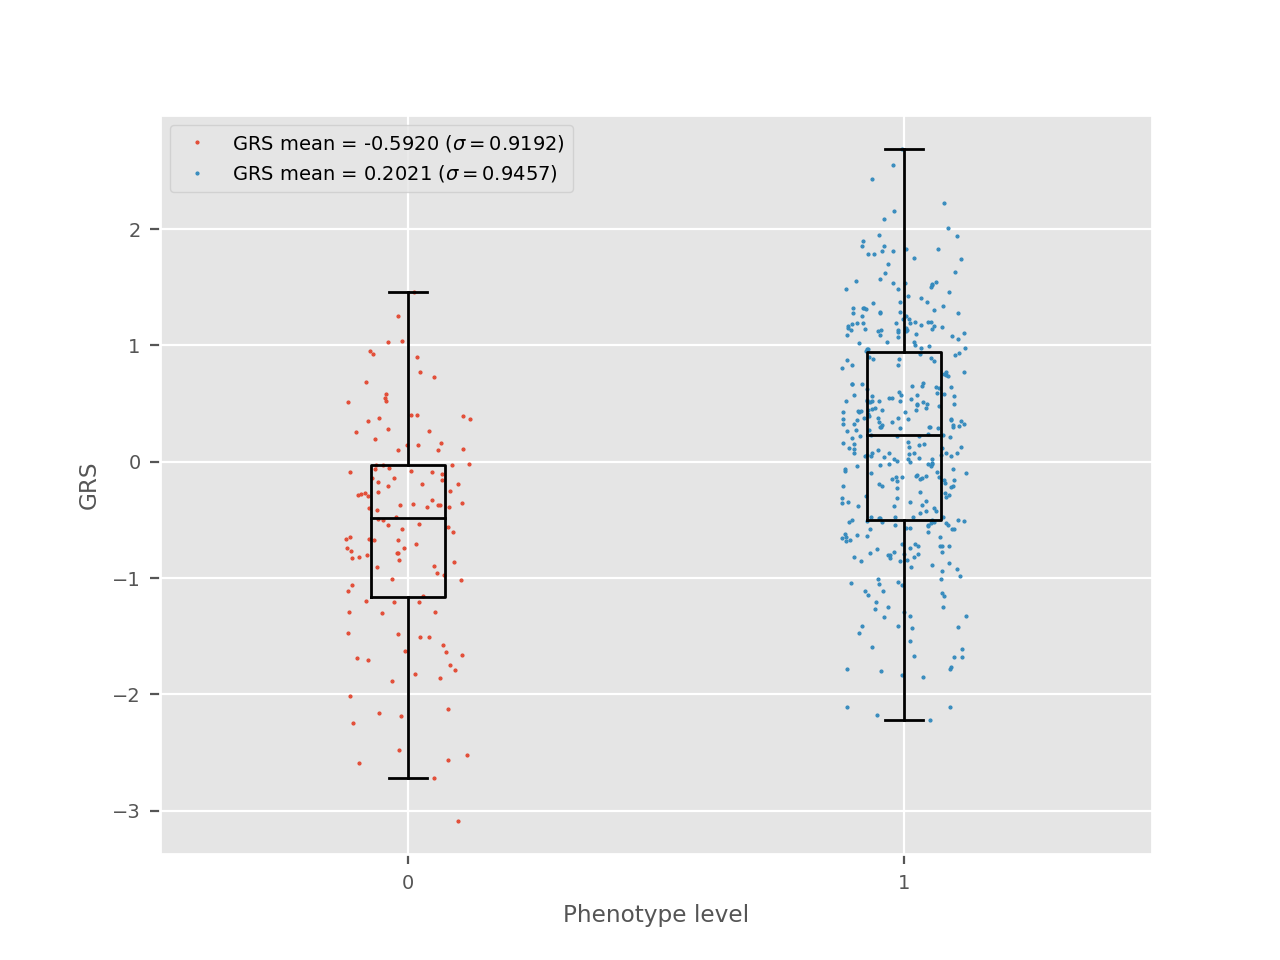
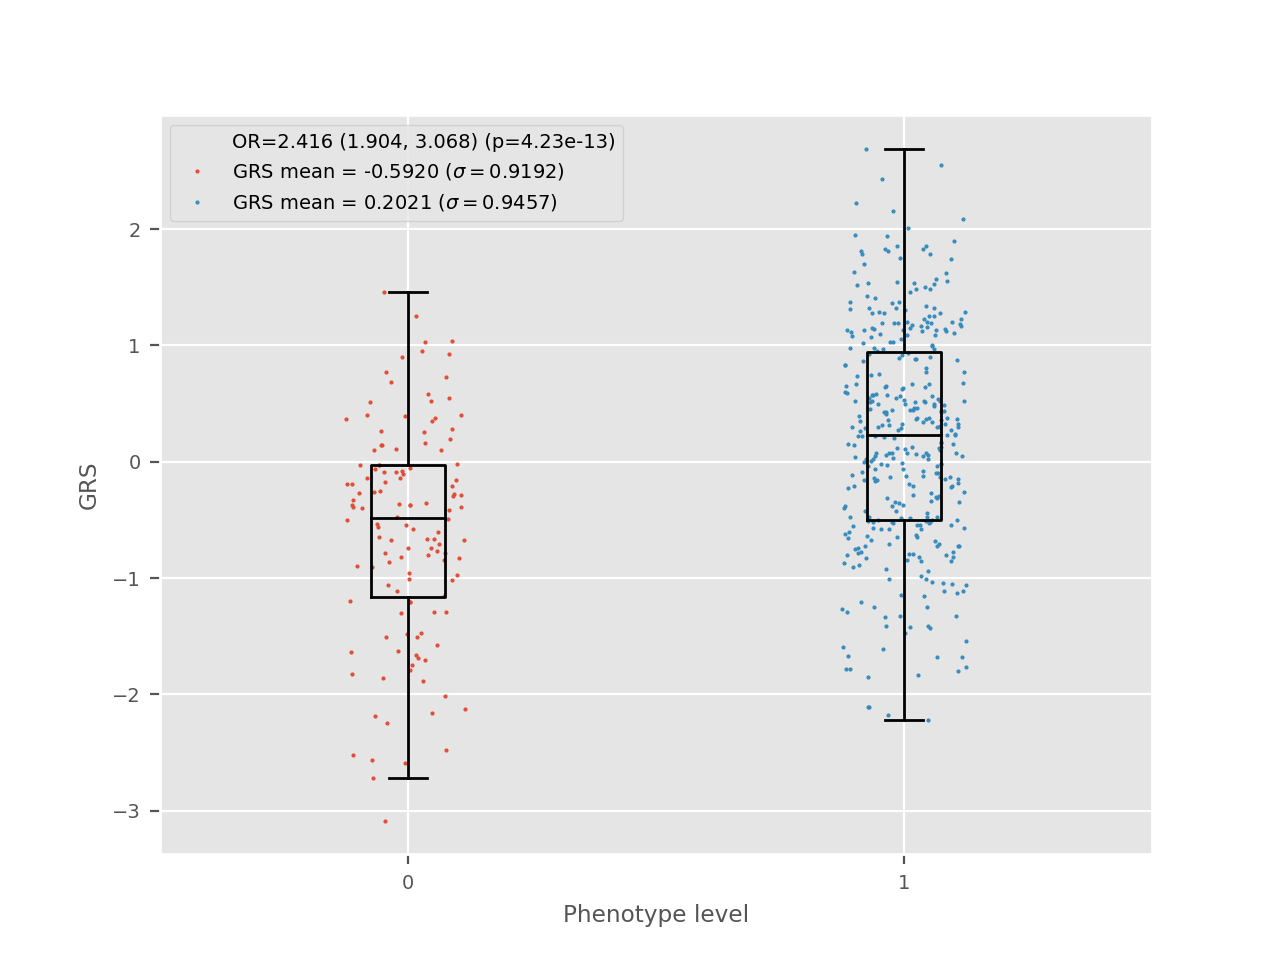
Updated the doc and added an --exclude-region option in the SNP selection.

diff --git a/grstools/scripts/choose_snps.py b/grstools/scripts/choose_snps.py
@@ -104,11 +104,17 @@ def _parse_region(s):
 
 
 def read_summary_statistics(filename, p_threshold, sep=",",
-                            keep_ambiguous=False, region=None):
+                            keep_ambiguous=False, region=None,
+                            exclude_region=None):
     if region is not None:
         region = _parse_region(region)
         logger.info("Only variants in region chr{}:{}-{} will be considered."
                     "".format(*region))
+
+    if exclude_region is not None:
+        exclude_region = _parse_region(exclude_region)
+        logger.info("Only variants outside of region chr{}:{}-{} will be "
+                    "considered.".format(*exclude_region))
 
     # Variant to stats orderedict (but constructed as a list).
     summary = []
@@ -120,6 +126,13 @@ def read_summary_statistics(filename, p_threshold, sep=",",
     df = parse_grs_file(filename, p_threshold=p_threshold, sep=sep)
     df.sort_values("p-value", inplace=True)
 
+    # Method to see if a variant is in a region.
+    def _in_region(variant, chrom, start, end):
+        return (
+            variant.chrom == chrom and
+            start <= variant.pos <= end
+        )
+
     # For now, this is not a limiting step, but it might be nice to parallelize
     # this eventually.
     for idx, info in df.iterrows():
@@ -129,13 +142,15 @@ def read_summary_statistics(filename, p_threshold, sep=",",
         variant = geneparse.Variant(info["name"], info.chrom, info.pos,
                                     [info.reference, info.risk])
 
+        # Region based inclusion/exclusion
         if region is not None:
-            in_region = (
-                variant.chrom == region[0] and
-                region[1] <= variant.pos <= region[2]
-            )
-            if not in_region:
+            if not _in_region(variant, *region):
                 continue
+
+        if exclude_region is not None:
+            if _in_region(variant, *exclude_region):
+                continue
+            
 
         if variant.alleles_ambiguous() and not keep_ambiguous:
             continue
@@ -370,6 +385,15 @@ def parse_args():
     )
 
     parser.add_argument(
+        "--exclude-region",
+        help=("Only consider variants located OUTSIDE a genomic region. "
+              "The expected format is 'chrCHR:START-END'. For example: "
+              "'chr1:12345-22345'."),
+        default=None,
+        type=str
+    )
+
+    parser.add_argument(
         "--keep-ambiguous-alleles",
         help="Do not filter out ambiguous alleles (e.g. G/C or A/T)",
         action="store_true"
@@ -422,6 +446,7 @@ def main():
     ld_window_size = args.ld_window_size
     keep_ambiguous = args.keep_ambiguous_alleles
     region = args.region
+    exclude_region = args.exclude_region
 
     summary_filename = args.summary
     reference_filename = args.reference
@@ -431,7 +456,8 @@ def main():
     logger.info("Reading summary statistics.")
     summary, index = read_summary_statistics(summary_filename, p_threshold,
                                              keep_ambiguous=keep_ambiguous,
-                                             region=region)
+                                             region=region,
+                                             exclude_region=exclude_region)
 
     logger.info("Extracting genotypes.")
     genotypes = extract_genotypes(reference_filename, summary, maf_threshold)

diff --git a/grstools/scripts/evaluate.py b/grstools/scripts/evaluate.py
@@ -66,6 +66,12 @@ def regress(args):
         raise ValueError()
 
 
+def _get_dummy_artist():
+    return Rectangle(
+        (0, 0), 1, 1, fc="w", fill=False, edgecolor="none", linewidth=0
+    )
+
+
 def _linear_regress_plot(df, stats, out):
     data_marker, = plt.plot(df["grs"], df["y"], "o", markersize=0.5)
 
@@ -85,12 +91,8 @@ def _linear_regress_plot(df, stats, out):
     plt.ylabel("Phenotype")
 
     # Add extra info to the legend.
-    rect = Rectangle(
-        (0, 0), 1, 1, fc="w", fill=False, edgecolor="none", linewidth=0
-    )
-
     plt.legend(
-        (rect, data_marker, line_marker),
+        (_get_dummy_artist(), data_marker, line_marker),
         (
             r"$\beta={:.3g}\ ({:.3g}, {:.3g}),\ (p={:.4g},\ R^2={:.3g})$"
             "".format(stats["beta"], stats["CI"][0], stats["CI"][1],
@@ -108,8 +110,16 @@ def _linear_regress_plot(df, stats, out):
 
 
 def _logistic_regress_plot(df, stats, out):
-    # TODO
+    odds_ratio = np.exp(stats["beta"])
+    odds_ratio_ci = [np.exp(i) for i in stats["CI"]]
+
     # Add the odd ratio or else the stats are for nothing.
+    artists = [_get_dummy_artist()]
+    labels = [
+        "OR={:.3f} ({:.3f}, {:.3f}) (p={:.3g})"
+        "".format(odds_ratio, odds_ratio_ci[0], odds_ratio_ci[1],
+                  stats["p-value"])
+    ]
     levels = df["y"].unique()
     boxplot_data = []
     for i, level in enumerate(levels):
@@ -117,13 +127,16 @@ def _logistic_regress_plot(df, stats, out):
         boxplot_data.append(data)
 
         noise = (np.random.random(data.shape[0]) - 0.5) / 4
-        plt.plot(
+        lines, = plt.plot(
             np.full_like(data, i + 1) + noise,
             data,
             "o",
             markersize=0.5,
-            label="GRS mean = {:.4f} ($\sigma={:.4f}$)".format(data.mean(),
-                                                               data.std())
+        )
+        artists.append(lines)
+        labels.append(
+            "GRS mean = {:.4f} ($\sigma={:.4f}$)"
+            "".format(data.mean(), data.std())
         )
 
     plt.boxplot(boxplot_data, showfliers=False, medianprops={"color": "black"})
@@ -133,7 +146,7 @@ def _logistic_regress_plot(df, stats, out):
 
     plt.ylabel("GRS")
 
-    plt.legend()
+    plt.legend(artists, labels)
 
     if out is None:
         plt.show()
@@ -196,7 +209,10 @@ def dichotomize_plot(args):
         loc="upper center"
     )
 
-    plt.show()
+    if args.out:
+        plt.savefig(args.out)
+    else:
+        plt.show()
 
 
 def main():

diff --git a/grstools/utils.py b/grstools/utils.py
@@ -76,7 +76,7 @@ def parse_grs_file(filename, p_threshold=1, maf_threshold=0, sep=",",
     return df
 
 
-def mr_effect_estimate(phenotypes, outcome, exposure):
+def mr_effect_estimate(phenotypes, outcome, exposure, n_iter=1000):
     """Estimate the effect of the exposure on the outcome using the ratio
     method.
     """
@@ -94,20 +94,25 @@ def mr_effect_estimate(phenotypes, outcome, exposure):
         # Ratio estimate is beta = big_gamma / small_gamma
         return big_gamma / small_gamma
 
-    # Bootstrap standard error estimates.
+    # Run the bootstrap.
     df = phenotypes._phenotypes
-
     beta = _estimate_beta(phenotypes)
 
-    betas = []
+    betas = np.empty(n_iter, dtype=float)
     n = phenotypes.get_nb_samples()
-    for i in range(1000):
+    for i in range(n_iter):
         idx = np.random.choice(n, size=n, replace=True)
         phenotypes._phenotypes = df.iloc[idx, :]
-        betas.append(_estimate_beta(phenotypes))
+        betas[i] = _estimate_beta(phenotypes)
 
-    # FIXME Should I return the mean beta estimate from the bootstrap?
-    return beta, np.std(betas)
+    # Compute the error: deltastar = betas - beta
+    deltastar = betas - beta
+
+    # Find the critical values
+    # 95% CI -> 2.5% and 97.5%
+    low, high = beta - np.percentile(deltastar, [0.025, 0.975])
+
+    return beta, low, high
 
 
 def _create_genetest_phenotypes(grs_filename, phenotypes_filename,

diff --git a/grstools/scripts/mendelian_randomization.py b/grstools/scripts/mendelian_randomization.py
@@ -24,10 +24,16 @@ def main():
         args.phenotypes_sample_column, args.phenotypes_separator
     )
 
-    beta, se = mr_effect_estimate(
-        phenotypes, args.outcome, args.exposure
+    n_iter = 1000
+    beta, low, high = mr_effect_estimate(
+        phenotypes, args.outcome, args.exposure, n_iter=n_iter
     )
-    print("{} ({})".format(beta, se))
+
+    print("We ran {} bootstrap iterations to estimate the Beta coefficient."
+          "".format(n_iter))
+    print("The estimated value and 95% CI (computed using the empirical "
+          "bootstrap) are:\n")
+    print("{:.4g} ({:.4g}, {:.4g})".format(beta, low, high))
 
 
 def parse_args():

diff --git a/doc/source/utilities.rst b/doc/source/utilities.rst
@@ -81,7 +81,7 @@ risk score (G)) is used to estimate the effect of an exposure (X) on an outcome
 (Y). Here, the estimation is done using the ratio method:
 
 .. math::
-    \beta = \frac{\beta_{Y \sim G}}{\beta_{Y \sim X}}
+    \beta = \frac{\beta_{Y \sim G}}{\beta_{X \sim G}}
 
 In the current implementation, bootstrap resampling is used to estimate the
 standard error which can be used for further inference.
@@ -198,26 +198,33 @@ follows:
 .. image:: _static/images/evaluate-regress-binary.png
 
 In this plot, the perspective is somewhat reversed, when compared with the
-linear case. The GRS is now in the y axis and it's distribution is shown in
+linear case. The GRS is now in the y axis and its distribution is shown in
 cases and controls. The more general term "level" is used to describe the
 discrete numerical values of the phenotype as it could be used for factor
 variables.
 
-.. todo::
-    Logistic regression, fix doc and plot.
+The results for the logistic regression are shown on the plot. The OR
+corresponds to the expected increase in odds for a one unit increase in the
+GRS.
 
 dichotomize-plot
 +++++++++++++++++
 
 This plot can be used to select an optimal quantile for dichotmization. The
 tradeoff between the number of individuals classified and the GRS effect size
-is highlighted.
+is highlighted. Note that selecting a local maxima in this plot can be a bad
+idea because it increases the risk of overfitting. Traditional approaches such
+as using a test set, using cross-validation or bootstrapping can be used to
+select a more robust threshold.
+
+The dichotmization is done by comparing the extremums of the distribution. For
+example, at the 0.25 quantile, the first quartile (1/4) is compared to the last
+quartile (4/4). All of the individuals in between can be used to form an
+"intermediate" group or can be excluded from downstream analyses. This is why
+the right axis represents the number of individuals that are classified in
+either the "high" or "low" group for a given dichotmization.
 
 .. image:: _static/images/evaluate-dichotomize-plot.png
-
-.. todo::
-    The ``--out`` is not handled for this plot. Also describe how the
-    dichotmization is done (i.e. 1/4 vs 4/4 and not 1/4 vs else).
 
 .. literalinclude:: includes/grs_evaluate_help.txt
     :language: none
